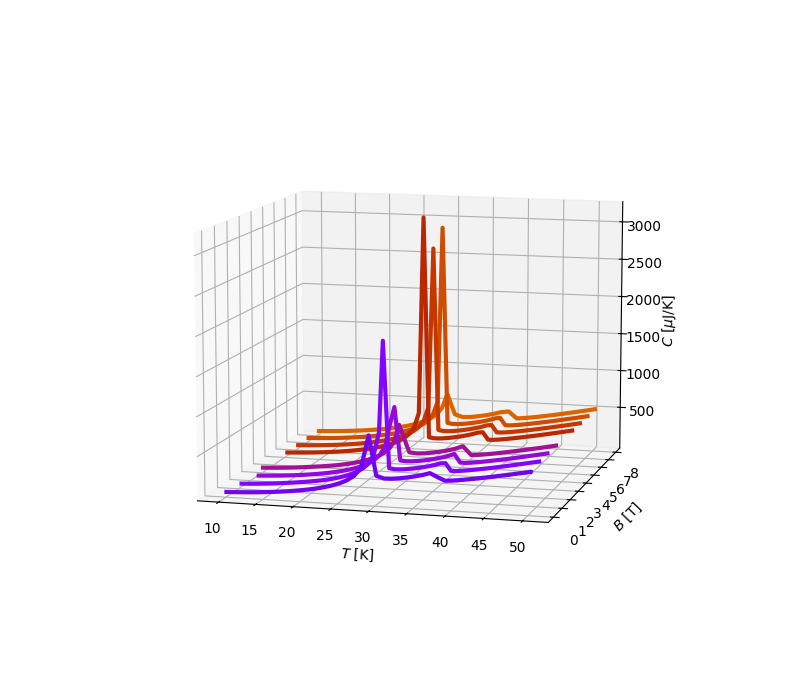
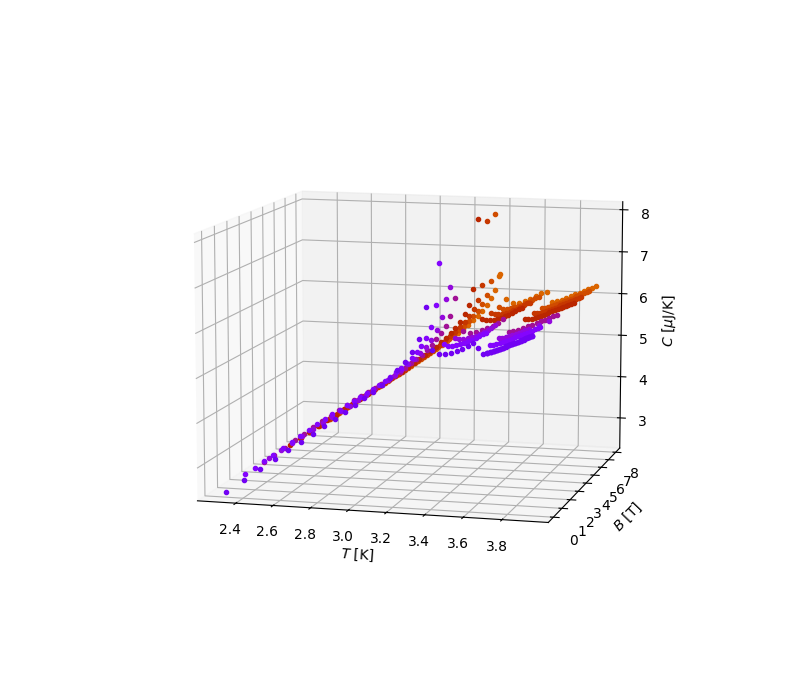
logplot

diff --git a/plot_data.py b/plot_data.py
@@ -21,7 +21,7 @@ for filepath in glob.glob(os.path.join(filedir, 'NiS2_upto*')):
     idx = np.argsort(T)
     T = T[idx]
     C = C[idx]
-    ax.plot(T, C, '-', linewidth = 3, color = colors[int(B)], label = f'{B} T')
+    ax.plot(np.log(T), np.log(C), '.', linewidth = 3, color = colors[int(B)], label = f'{B} T')
 
 ax.set_xlabel(r'$T$ [K]')
 ax.set_ylabel(r'$C$ [$\mu$J/K]')
@@ -42,7 +42,7 @@ for filepath in glob.glob(os.path.join(filedir, 'NiS2_@*'))[::-1]:
     idx = np.argsort(T)
     T = T[idx]
     C = C[idx]
-    ax.plot(T, B*np.ones(T.shape), C, '-', linewidth = 3, color = colors[int(B)], label = f'{B} T')
+    ax.plot(np.log(T), B*np.ones(T.shape), np.log(C), '.', linewidth = 3, color = colors[int(B)], label = f'{B} T')
 
 ax.set_xlabel(r'$T$ [K]')
 ax.set_ylabel(r'$B$ [T]')
